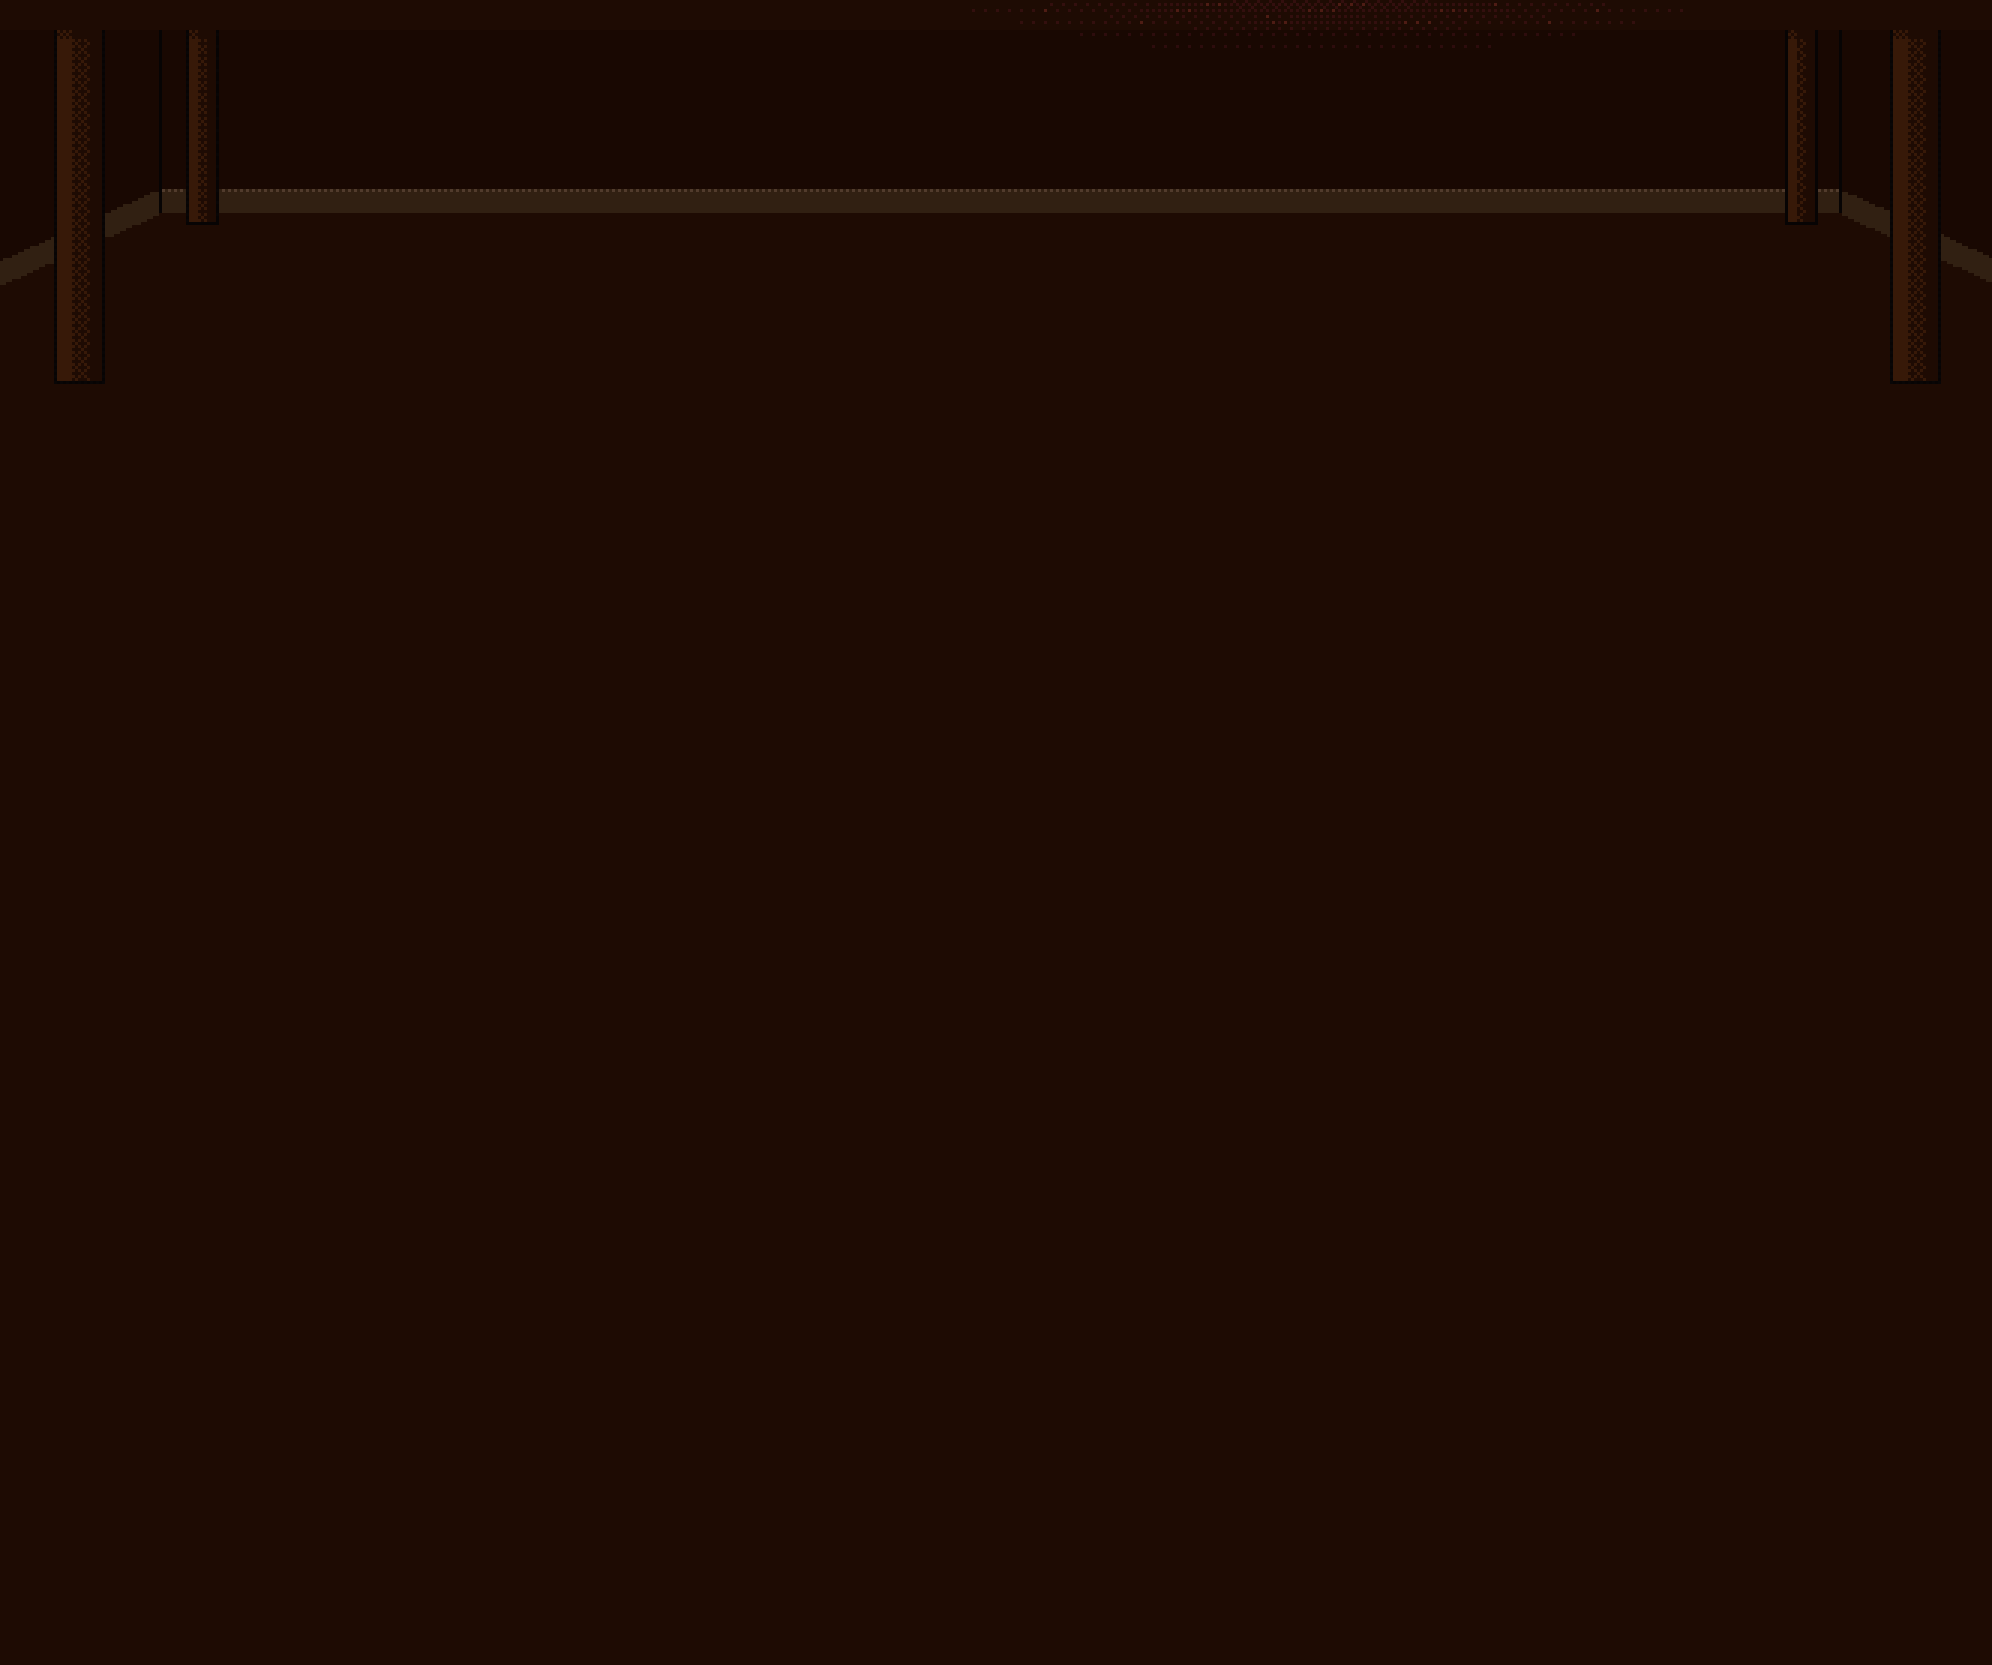
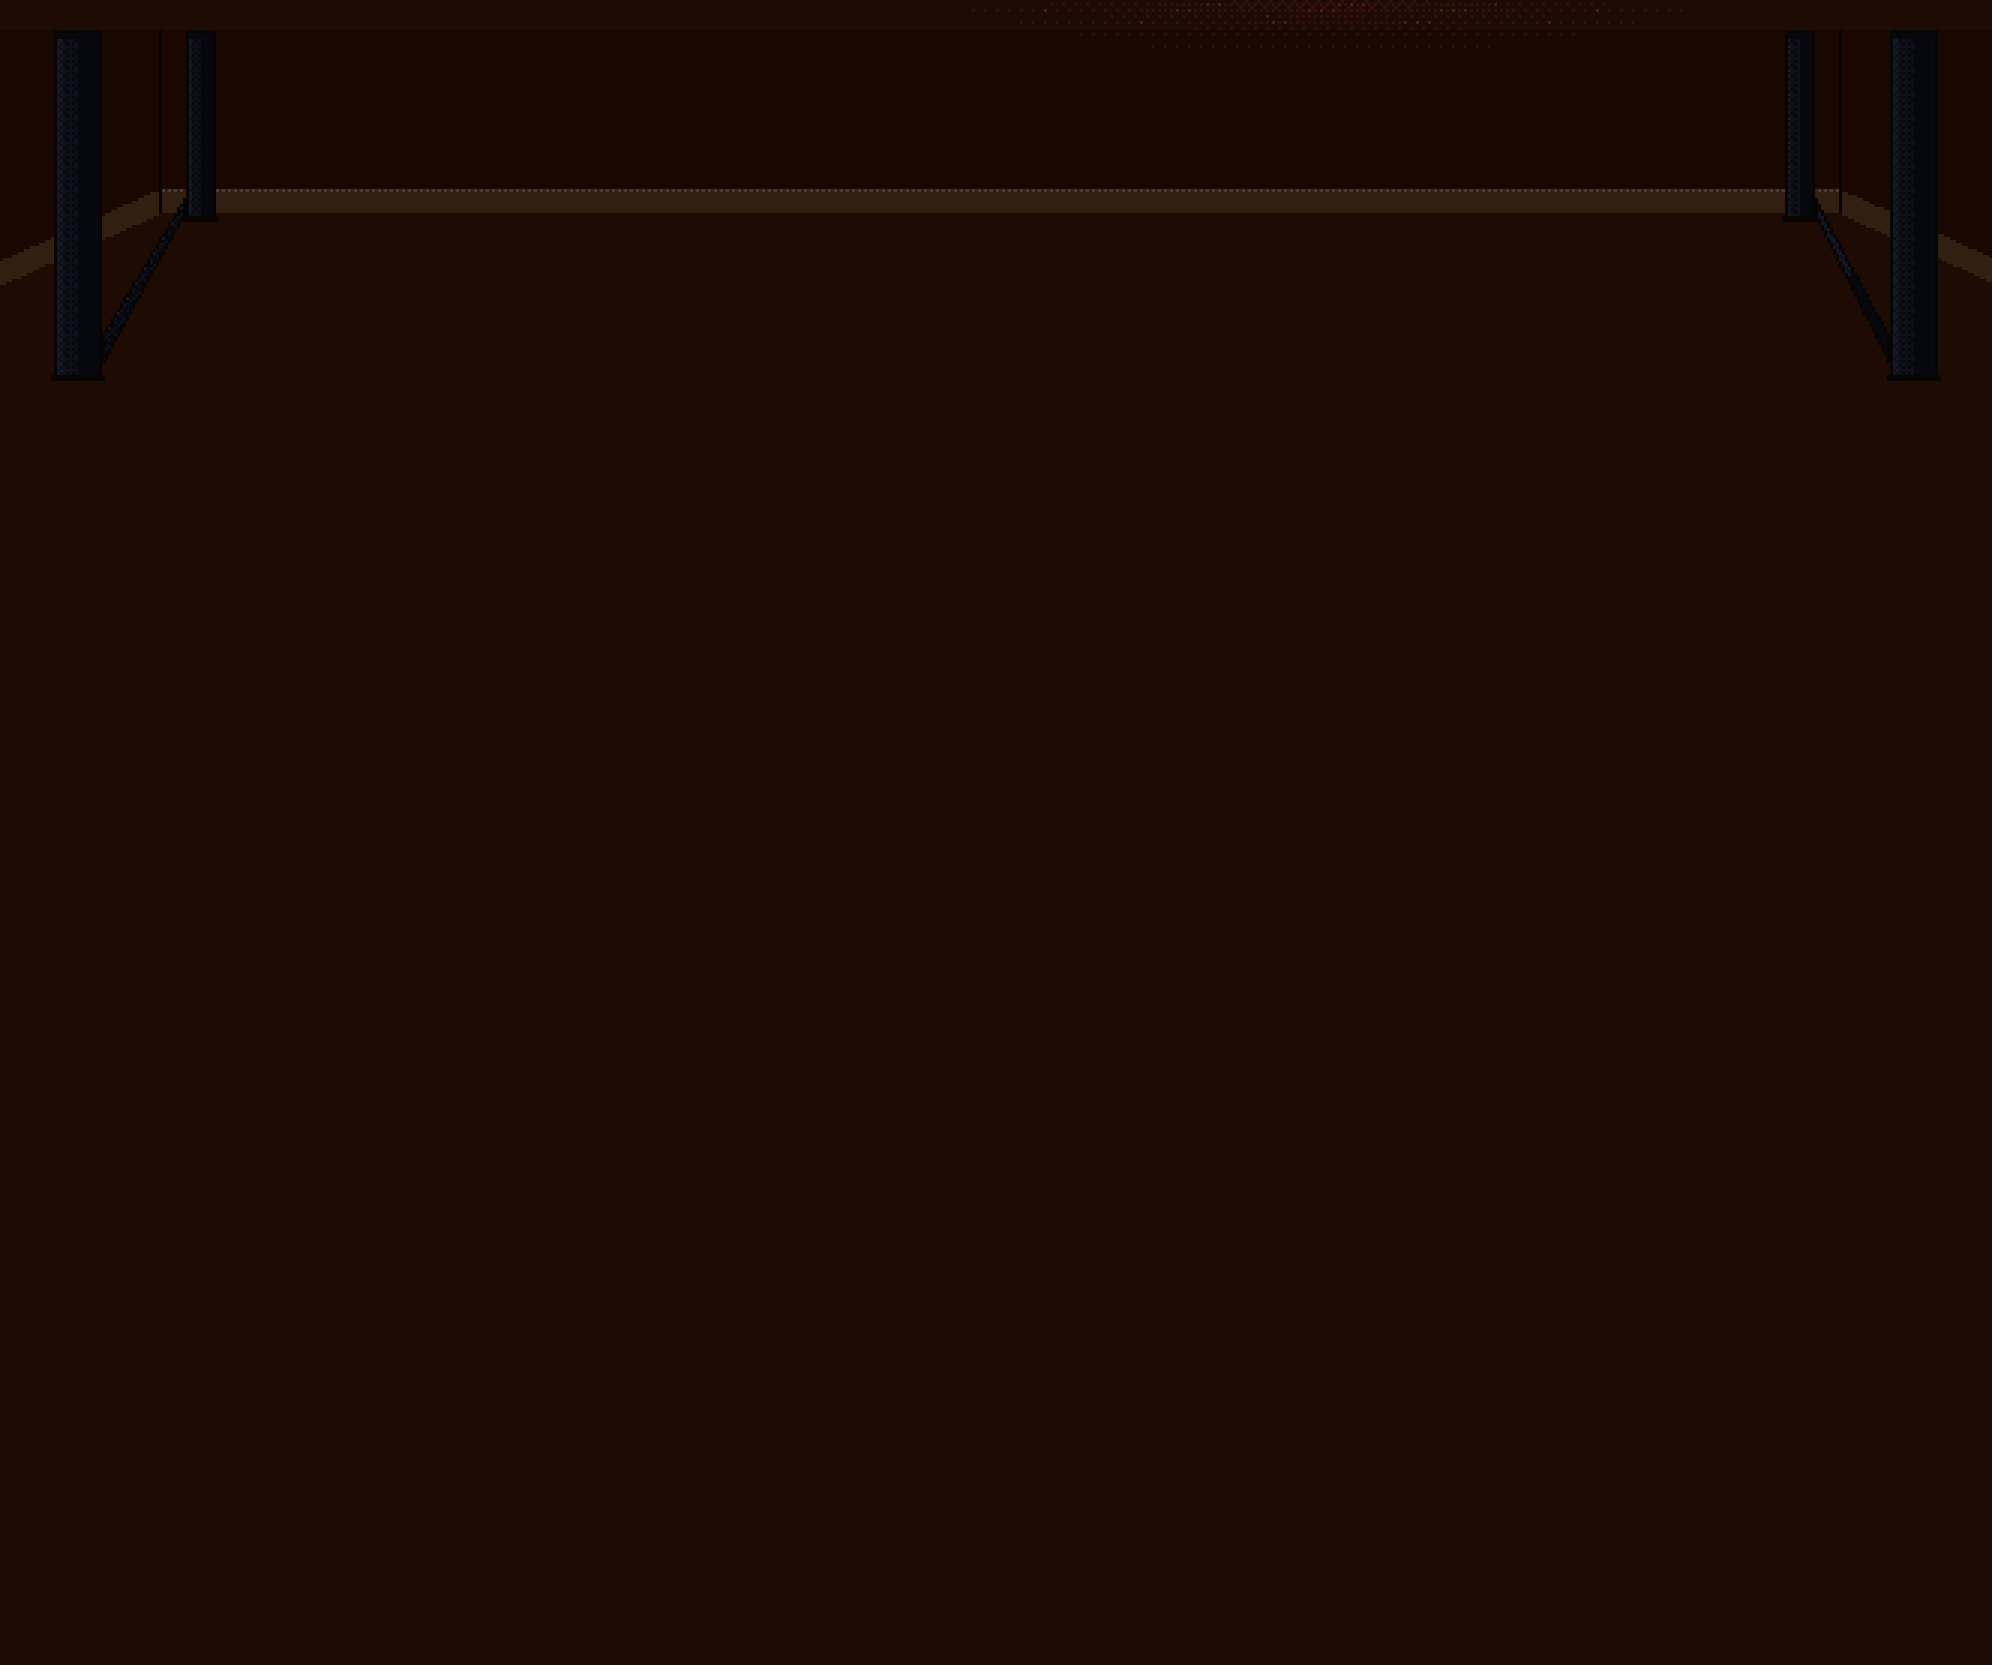
Phone view: black metal desk legs with a low bar down each side, and no seam at the screen edges
The legs are square black tube now, like a real metal-frame desk, with a bar
near the floor joining each front leg to the back one. The room's edge shading
stretched over the bands but stopped at the room's own sides, which left a
light strip with a line down both edges; it now reaches the screen's edges.

diff --git a/scripts/desk-room.js b/scripts/desk-room.js
@@ -25,6 +25,7 @@ function rampAround(h) {
 const WALL_PICTURE = require('./wall-picture.js');
 
 const SHARED = {
+  steel: R(['#0b0b0f', '#15151b', '#212128', '#2f2f38', '#4a4a55']), // the desk's black metal frame (the phones' room)
   ink: R(['#0a0504', '#0e0806', '#130b08', '#180f0a', '#1e130d']),
   bronze: R(['#2a160a', '#4e2c12', '#7a4a22', '#a8703a', '#dcae6c']),
   glassOn: R(['#d9822c', '#f2b04e', '#ffd274', '#ffe8a4', '#fff8dc']),
@@ -413,19 +414,38 @@ function drawRoom(theme, on, lavaOn = true, opt = {}) {
     }
   }
 
-  // the desk's four legs (only below its front edge, so only the phones' band shows them): square posts at its ends,
-  // the back pair by the side walls' corners standing on the floor's back edge, the front pair nearer the room's
-  // edges and a little lower, standing on the floor nearer you; [left, right, foot] in u
+  // the desk's frame (only below its front edge, so only the phones' band shows it): four square legs of black metal
+  // tube, the back pair by the side walls' corners on the floor's back edge, the front pair nearer the room's edges and
+  // lower, on the floor nearer you; and on each side a bar of the same tube low down, from the front leg back to the
+  // back one (front and back pairs run toward the vanishing point, so the bars slant). In u, as the screen sees it.
   if (OB > 0) {
-    const legs = [[CL + 6, CL + 13, FLOOR + 2], [CR - 13, CR - 6, FLOOR + 2], [4, 16, FLOOR + 40], [445, 457, FLOOR + 40]]; // back pair first
-    for (const [l, r, foot] of legs) {
-      const X0 = Math.round(l * K) + OX, X1 = Math.round(r * K) + OX, Y0 = Math.round(APRON * K), Y1 = Math.round(foot * K);
-      for (let Y = Y1 - 1; Y <= Y1 + 2; Y++) for (let X = X0 - 3; X <= X1 + 3; X++) { const i = (Y + OT) * WW + X; if (Y >= -OT && Y < H + OB && X >= 0 && X < WW && RB[i] >= 0) SB[i] = Math.max(0, SB[i] - 0.08); }
+    /** A filled polygon (u), outlined in ink where it meets anything else; shade(f, y) with f across it, 0..1. */
+    const fill = (pts, shade) => {
+      const [bx0, by0, bx1, by1] = bb(pts), inside = poly(pts);
+      const X0 = Math.floor(bx0 * K) + OX - 1, X1 = Math.ceil(bx1 * K) + OX + 1, Y0 = Math.floor(by0 * K) - 1, Y1 = Math.ceil(by1 * K) + 1;
+      const m = (X, Y) => inside((X - OX + 0.5) / K, (Y + 0.5) / K);
       for (let Y = Y0; Y <= Y1; Y++) for (let X = X0; X <= X1; X++) {
-        const edge = X === X0 || X === X1 || Y === Y1, f = (X - X0) / Math.max(1, X1 - X0);
-        put(X, Y, edge ? 'ink' : 'desk', edge ? 0.3 : (f < 0.34 ? 0.5 : f < 0.7 ? 0.34 : 0.18) - (Y - Y0 < 3 ? 0.12 : 0)); // lit from the lamp's side, the top in the desk's shadow
+        if (!m(X, Y)) continue;
+        const edge = !(m(X - 1, Y) && m(X + 1, Y) && m(X, Y - 1) && m(X, Y + 1));
+        put(X, Y, edge ? 'ink' : 'steel', edge ? 0.3 : shade(((X - OX + 0.5) / K - bx0) / Math.max(0.5, bx1 - bx0), (Y + 0.5) / K));
       }
-    }
+    };
+    // a square tube seen face on: its lamp-side edge catches the light, the far side in shade, the top under the desk
+    const tube = (f, y, top) => (y < top + 2 ? 0.14 : f < 0.22 ? 0.66 : f < 0.5 ? 0.42 : 0.24);
+    const leg = (l, r, foot) => {
+      // contact shadow on the floor round its foot
+      for (let Y = Math.round(foot * K) - 1; Y <= Math.round(foot * K) + 2; Y++) for (let X = Math.round(l * K) + OX - 3; X <= Math.round(r * K) + OX + 3; X++) { const i = (Y + OT) * WW + X; if (Y >= -OT && Y < H + OB && X >= 0 && X < WW && RB[i] >= 0 && !EB[i]) SB[i] = Math.max(0, SB[i] - 0.08); }
+      fill([[l, APRON], [r, APRON], [r, foot], [l, foot]], (f, y) => tube(f, y, APRON));
+      fill([[l - 0.7, foot - 1.6], [r + 0.7, foot - 1.6], [r + 0.7, foot], [l - 0.7, foot]], () => 0.1); // its foot
+    };
+    // the bar between a front leg (its inner face at xf, foot yf) and a back leg (inner face xb, foot yb), a little
+    // above the floor, thicker at the front where it's nearer
+    const bar = (xf, yf, xb, yb) => fill([[xf, yf - 11], [xb, yb - 6.5], [xb, yb - 2], [xf, yf - 3.5]], (f, y) => (y < (yf - 11) + (yb - yf + 4.5) * f + 1.6 ? 0.62 : y > (yf - 3.5) + (yb - yf + 1.5) * f - 1.4 ? 0.16 : 0.34));
+    const BACK = FLOOR + 2, FRONT = FLOOR + 40;
+    const [bl, br] = [[CL + 6, CL + 13], [CR - 13, CR - 6]], [fl, fr] = [[4, 16], [445, 457]];
+    leg(bl[0], bl[1], BACK); leg(br[0], br[1], BACK); // the back pair first
+    bar(fl[1], FRONT, bl[0], BACK); bar(fr[0], FRONT, br[1], BACK); // the side bars, from each front leg to the back leg's near face
+    leg(fl[0], fl[1], FRONT); leg(fr[0], fr[1], FRONT);
   }
 
   // ------------------------------------------------ the camera, the lights, and the things modelled in 3D

diff --git a/components/cinema/CinemaScene.tsx b/components/cinema/CinemaScene.tsx
@@ -1211,7 +1211,11 @@ export default function CinemaScene() {
 
           <div
             className="cinema__dark"
-            style={portrait ? { top: `-${(BAND_TOP / art.size.height) * 100}%`, bottom: `-${bandBottom}` } : undefined}
+            style={
+              portrait
+                ? { top: `-${(BAND_TOP / art.size.height) * 100}%`, bottom: `-${bandBottom}`, left: bandSpan.left, right: bandSpan.left }
+                : undefined
+            }
             aria-hidden="true"
           />
         </div>
